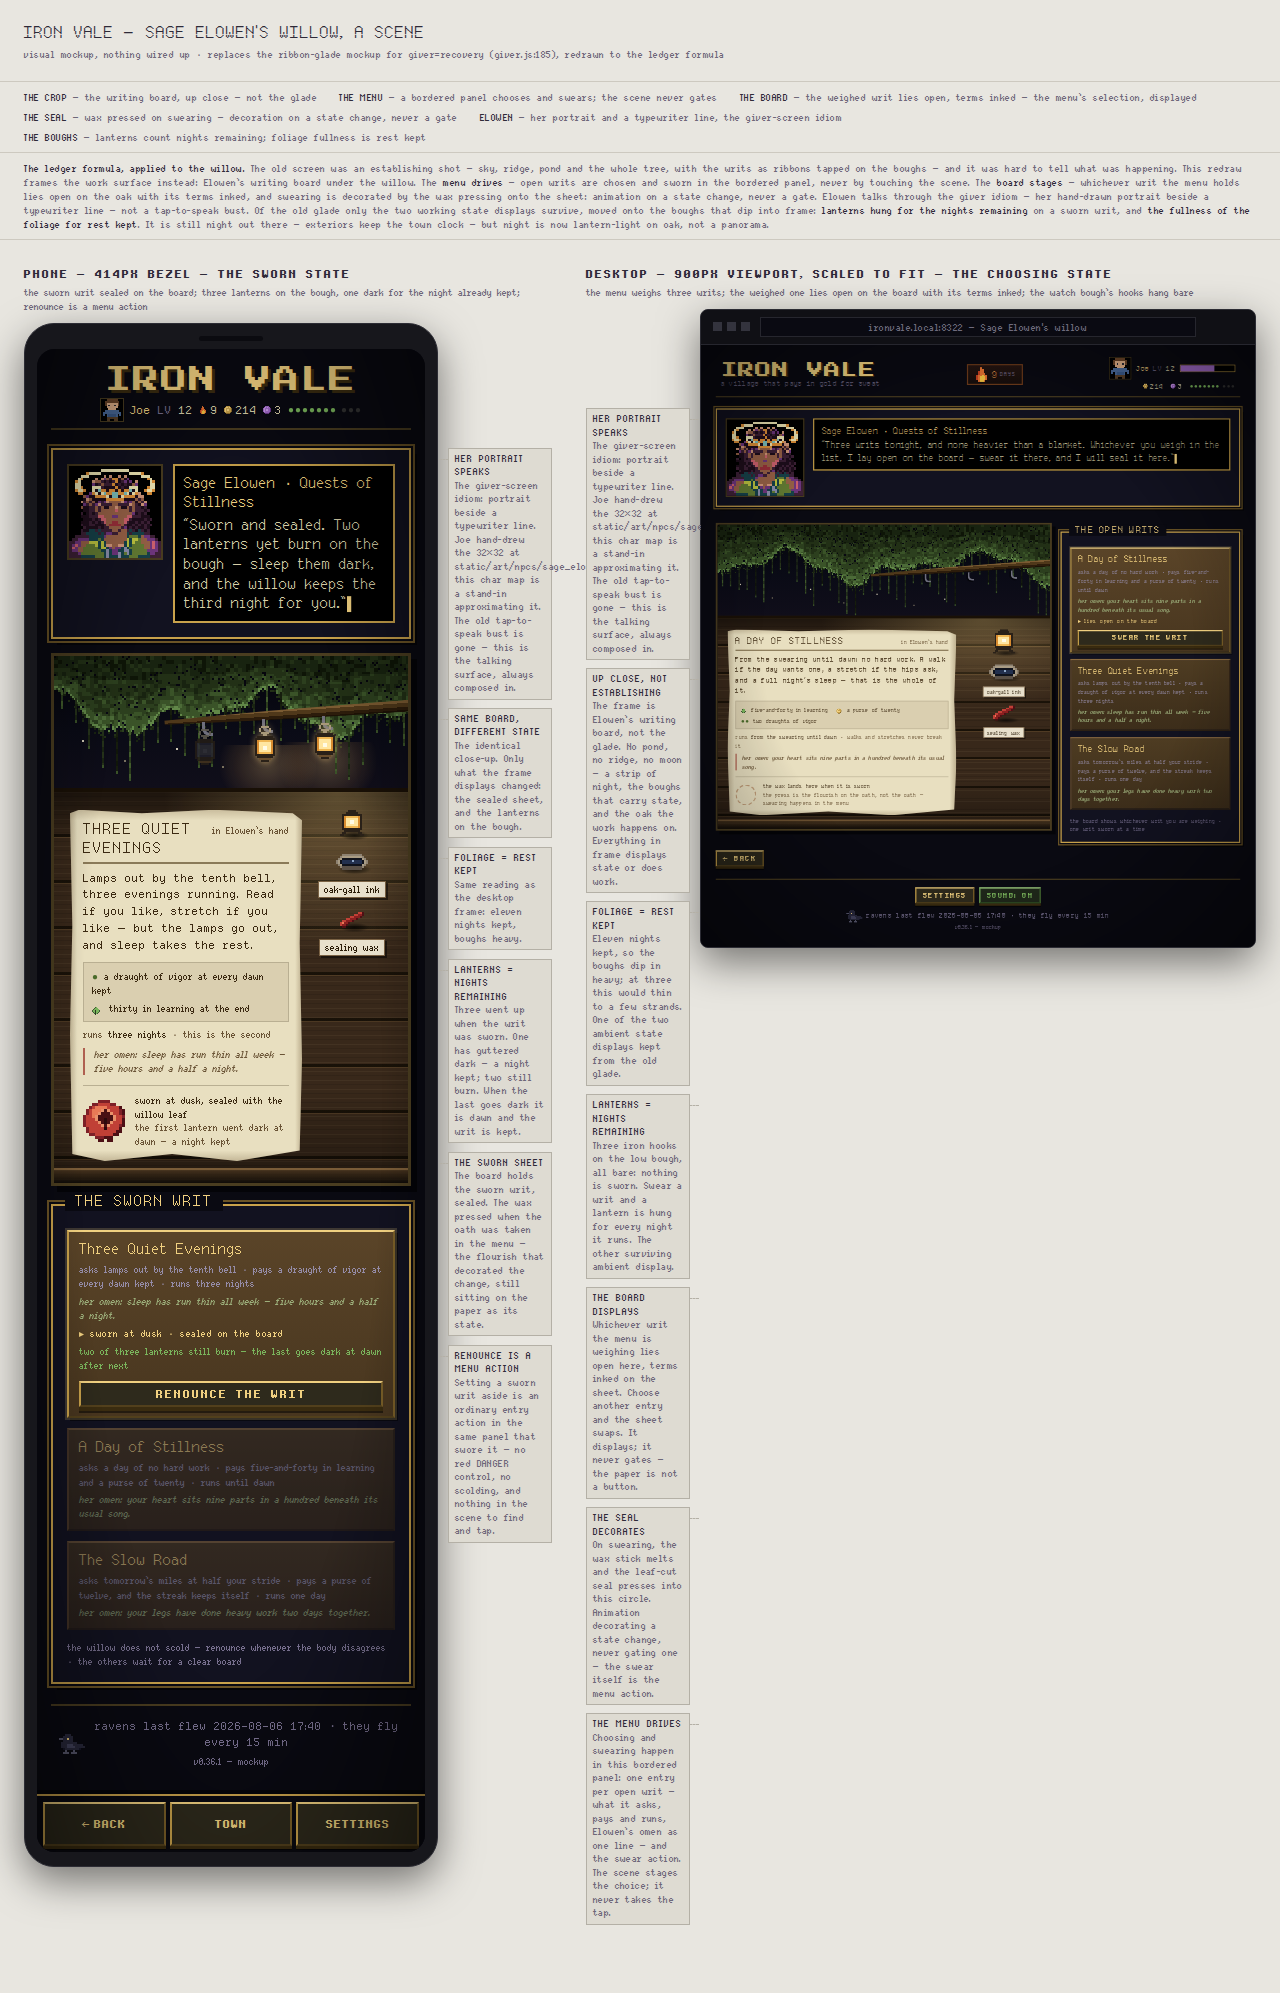
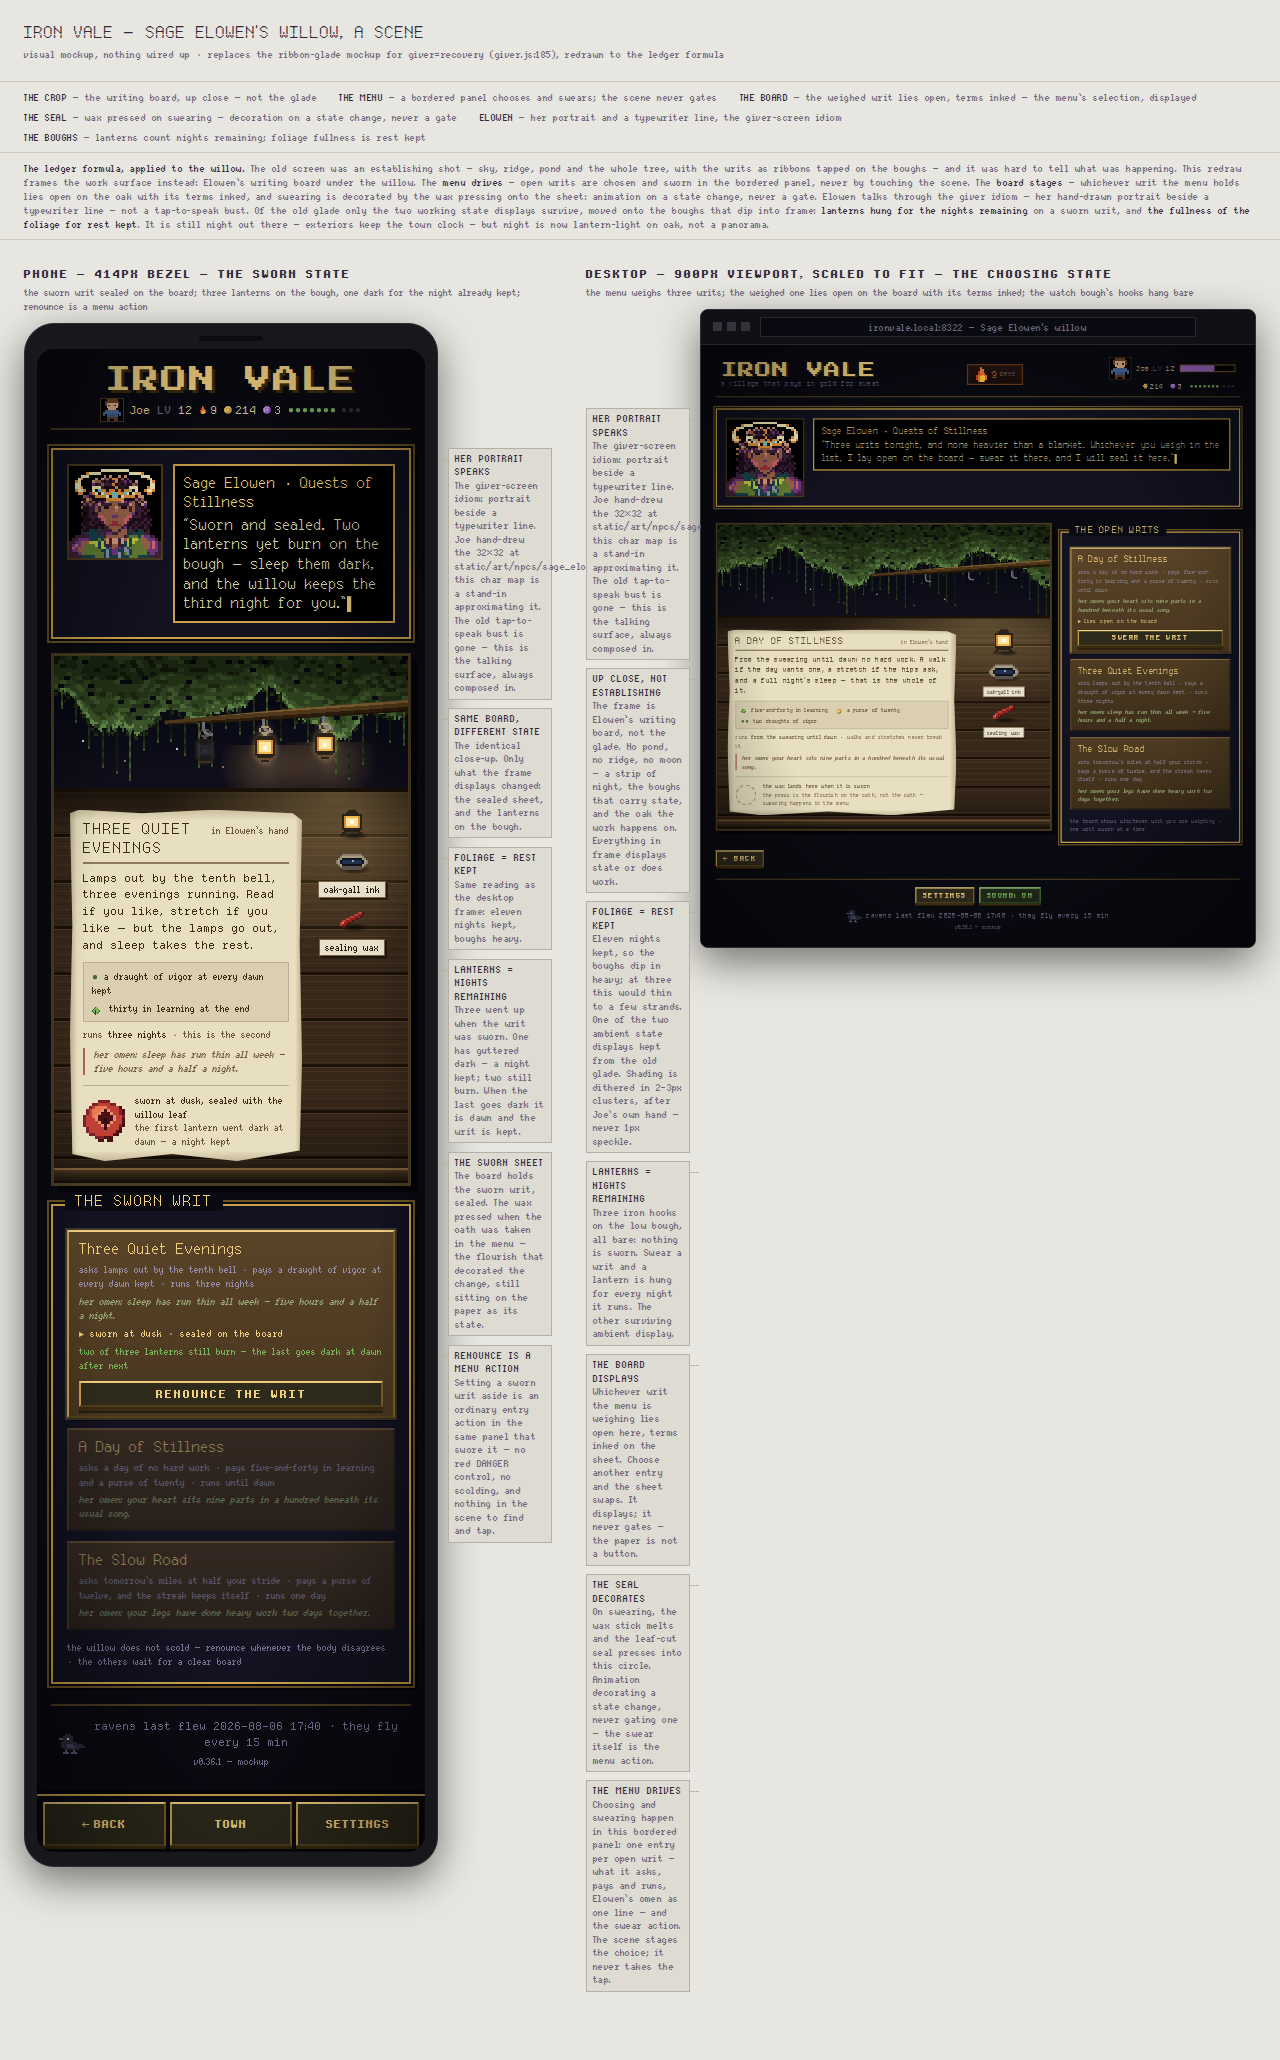
docs: review fixes — minute entry, cluster dither, 44px hit areas
Claude-Session: https://claude.ai/code/session_01BWToSBuq99hif8LTEVKkDE

Changed region(s): [[0.0, 0.0, 1.0, 0.9644]]

diff --git a/docs/mockups/place-ledger.html b/docs/mockups/place-ledger.html
@@ -141,7 +141,7 @@
   background:#20304e; animation:dripFall 1.7s steps(2) infinite; }
 @keyframes dripFall { 0% { opacity:0.15; transform:translateY(-5px); } 50% { opacity:1; transform:translateY(0); } }
 /* the quill lies across the right of the line, so the writing keeps clear of it */
-.iv .entry-fresh .etext, .iv .notewrite { padding-right:58px; }
+.iv .entry-fresh .etext, .iv .entry-fresh .efine, .iv .notewrite { padding-right:58px; }
 .iv .notewrite { display:block; margin-top:3px; }
 .iv .notewrite .ntext { color:#2a1c08; font-family:var(--font-fine); font-size:var(--type-fine);
   line-height:1.3; }
@@ -178,8 +178,20 @@
 .iv .rule-ink::after { content:''; position:absolute; left:100%; top:0; width:17px; height:4px;
   background:linear-gradient(90deg, #7a1e1e 0, rgba(122,30,30,0.6) 42%, rgba(122,30,30,0) 100%);
   clip-path:polygon(0 0, 48% 4%, 100% 40%, 100% 60%, 48% 96%, 0 100%); }
-.iv .strike-say { display:block; margin:5px 14px 0 0; text-align:right; color:#7a1e1e;
-  font-family:var(--font-fine); font-size:var(--type-fine); letter-spacing:0.5px; }
+/* the strike action. Destructive, so it is never the smallest target on the
+   screen: a padded small-caps line in the body weight class, carrying the
+   straightedge's own brass motif — visually modest, but its invisible hit
+   region (the ::before inset) extends past the border to 44x44px, the
+   DESIGN.md phone minimum. */
+.iv .strike-row { display:block; text-align:right; margin:6px 8px 0 0; }
+.iv .strike-act { position:relative; display:inline-flex; align-items:center; gap:8px;
+  appearance:none; -webkit-appearance:none; padding:7px 12px; cursor:pointer;
+  border:2px solid #7a1e1e; background:rgba(122,30,30,0.10); color:#7a1e1e;
+  font-family:var(--font-body); font-size:var(--type-body); font-variant:small-caps;
+  letter-spacing:1px; line-height:1.1; box-shadow:2px 2px 0 rgba(0,0,0,0.35); }
+.iv .strike-act::before { content:''; position:absolute; left:-6px; right:-6px; top:-7px; bottom:-7px; }
+.iv .strike-act .edge-mote { display:inline-block; width:22px; height:6px; border:1px solid #7a1e1e;
+  background:linear-gradient(180deg,#c4a97e,#ab9066); }
 
 /* --- the stamp rack: a slotted block, and what is standing in and around it --- */
 .iv .rack-stage { position:relative; height:220px; margin-bottom:12px; }
@@ -240,6 +252,22 @@
 .iv .reading .rd { display:inline-block; padding:3px 8px; background:#140d05; border:2px solid var(--gold);
   color:var(--gold-bright); font-family:var(--font-body); font-size:var(--type-body); line-height:1.2;
   box-shadow:0 2px 0 rgba(0,0,0,0.6); }
+/* the minute line: a REAL numeric field beside the glass. The number is the
+   record — the backend stores plain minutes, and nothing here rounds the
+   stored figure. The glass and the prose reading only display it; whether a
+   display may round to quarter-hours is a question parked for Joe. */
+.iv .minute-line { margin-top:10px; text-align:center; }
+.iv .minute-line .paper-tag { display:inline-block; margin-bottom:4px; }
+.iv .minute-in { display:inline-block; width:64px; padding:4px 6px; background:#e8e0cc;
+  border:2px solid #7a6244; color:#2a1c08; font-family:var(--font-body); font-size:var(--type-body);
+  text-align:center; box-shadow:2px 2px 0 rgba(0,0,0,0.5);
+  appearance:textfield; -moz-appearance:textfield; }
+.iv .minute-in:focus { outline:2px solid var(--gold); outline-offset:1px; }
+.iv .minute-in::-webkit-outer-spin-button, .iv .minute-in::-webkit-inner-spin-button {
+  -webkit-appearance:none; margin:0; }
+.iv-phone .desk-edge .minute-line { margin-top:8px; }
+.iv-phone .desk-edge .minute-in { width:52px; padding:3px 4px; font-family:var(--font-fine);
+  font-size:var(--type-fine); }
 
 /* --- the slips the ravens already brought: paper, torn and sealed --- */
 /* the raven stands on the stack it brought, so the paper is under its feet */
@@ -626,7 +654,8 @@
         <span class="hs-shade"></span>${IV.spriteTag('stamp_climb_held', 32)}<span class="drop"></span>
       </span>
       <span class="ghost-blot"></span>
-      <span class="etext">this evening &mdash; <b>a little under an hour</b></span>
+      <span class="etext">this evening &mdash; <b>52 minutes</b></span>
+      <span class="efine">&ldquo;a little under an hour,&rdquo; in Wick&rsquo;s gloss &mdash; the figure is what stands</span>
       <span class="notewrite"
             data-seam="QUILL"
             data-tag="THE QUILL IS THE NOTE FIELD|Write on the line with it. The note goes where a note goes: on the page, in its own entry.">
@@ -685,14 +714,23 @@
     </div>`;
   }
 
-  /* the hourglass: set the sand by the brass slide, and it reads back */
+  /* the hourglass: the minutes, held in glass. A real numeric field sets them
+     exactly (the record is plain minutes, same as the backend); the brass
+     slide stays as the drag alternative; glass and prose only display. */
   function hourglass(phone) {
+    var mid = phone ? 'minin-p' : 'minin-d';
     return `<div class="prop"
          data-seam="GLASS"
-         data-tag="THE GLASS IS THE MINUTES FIELD|Run the brass slide and the sand follows it; the glass reads back what it holds, rather than asking you for a number.">
+         data-tag="THE GLASS DISPLAYS THE MINUTES|Ink the number or run the brass slide &mdash; the sand follows either. The glass reads back what is set; it is a display, never the only way in.">
       <div class="glass-block">${stands('hourglass', 42)}</div>
       <div class="sandrail"><span class="ticks"></span><span class="fill"></span><span class="knob"></span></div>
-      <div class="reading"><span class="rd">a little under an hour</span></div>
+      <div class="minute-line"
+           data-seam="MINUTES"
+           data-tag="MINUTES, INKED PLAINLY|A real numeric field beside the glass: ink 52 and 52 is what is sworn. Precision follows the backend &mdash; plain minutes, never rounded on the way through. The prose reading below is decoration only; whether a display may gloss to quarter-hours is parked for Joe.">
+        <label class="paper-tag" for="${mid}">minutes, inked plainly</label>
+        <input class="minute-in" id="${mid}" type="number" inputmode="numeric" min="1" max="600" value="52">
+      </div>
+      <div class="reading"><span class="rd">reads &ldquo;a little under an hour&rdquo;</span></div>
     </div>`;
   }
 
@@ -819,7 +857,11 @@
                     <span class="efine">half an hour &middot; <i>the same walk, brought twice</i></span>
                     <span class="rule-lay">${straightedge()}</span>
                     <span class="rule-ink" style="width:68%"></span>
-                    <span class="strike-say">strike from the record</span>
+                    <span class="strike-row"
+                          data-seam="44PX"
+                          data-tag="NEVER THE SMALLEST TARGET|A destructive action must never be the smallest target on the screen. The strike line is a padded small-caps action in the body weight class with the straightedge&rsquo;s brass motif &mdash; visually modest, and its invisible hit region extends past the border to 44&times;44px, the DESIGN.md phone minimum.">
+                      <button type="button" class="strike-act"><i class="edge-mote"></i>strike from the record</button>
+                    </span>
                   </div>
 
                   ${freshEntry(true)}
@@ -845,10 +887,10 @@
     subtitle: 'visual mockup of SCREENS.scrivener (static/js/giver.js:1143) — nothing wired up, nothing shipped',
     legend: [
       { label: 'KIND', text: 'the select becomes a block of stamps, one die per kind of deed' },
-      { label: 'MINUTES', text: 'the number field becomes an hourglass and a brass slide' },
+      { label: 'MINUTES', text: 'the hourglass and slide display the minutes; a plainly-inked numeric field sets them exactly' },
       { label: 'NOTE', text: 'the text field becomes a quill writing on the line' },
       { label: 'SUBMIT', text: 'the button becomes the blot the die leaves' },
-      { label: 'DELETE', text: 'the straightedge rules a line — struck from the record' },
+      { label: 'DELETE', text: 'the straightedge rules a line — a padded action with a 44px hit area, never the smallest target' },
       { label: 'WICK', text: 'his hand-drawn 32&times;32 portrait + typewriter line, first-class — no tap-to-speak bust' },
     ],
     note: '<b>The thesis.</b> Today this screen is three form rows &mdash; a kind select, a minutes number field, a note text field &mdash; ' +
@@ -860,7 +902,7 @@
       phone: {
         title: 'Phone — 414px bezel',
         sub: 'the desk folded to its near edge; one entry mid-strike; Wick&rsquo;s portrait small on the far-edge band, a line half-typed',
-        chips: ['the fold', 'straightedge mid-rule', 'the block on the near edge', 'glass beside it'],
+        chips: ['the fold', 'straightedge mid-rule', 'a 44px strike target', 'the block on the near edge', 'minutes, inked plainly'],
         html: phoneScene(),
       },
       desktop: {

diff --git a/docs/mockups/place-hall.html b/docs/mockups/place-hall.html
@@ -544,6 +544,15 @@ var SCENE_CSS = `
 .iv .tapestry-scroll::-webkit-scrollbar-track { background:#0c0c14; }
 .iv .tapestry-scroll::-webkit-scrollbar-thumb { background:#4a3d20; }
 .iv .tapestry-scroll canvas { display:block; image-rendering:pixelated; }
+/* the annotation-layer depiction of one stitch's REAL tap target: stitches
+   stay 12px on the wall, but each answers to an invisible 44x44px hit region
+   (the DESIGN.md phone minimum). One is outlined here, centred on its stitch:
+   left = 26 + 50*14 + 6 - 22, top = 18 + 2*14 + 6 - 22 (col 50, row 2 of the
+   tapestry grid drawn below — a woven day). */
+.iv .tap-stage { position:relative; width:max-content; }
+.iv .stitch-hit { position:absolute; left:710px; top:30px; width:44px; height:44px;
+  box-sizing:border-box; border:2px dashed var(--gold-bright);
+  background:rgba(240,208,128,0.10); pointer-events:none; z-index:3; }
 .iv .tap-legend { display:flex; gap:8px 12px; flex-wrap:wrap; justify-content:center;
   font-family:var(--font-body); font-size:var(--type-body); color:var(--dim); margin-top:8px; }
 .iv .tap-legend .cdot { margin-right:4px; }
@@ -800,6 +809,7 @@ var TAG_SURFACE = 'THE READING SURFACE|A plain .win panel &mdash; the Tapestry c
 var TAG_BACK = 'STEP BACK OUT|A 24px archway in the &times;-close weight class with a fine caption under it. Not a BACK button: a doorway, in the corner of the panel you are reading.';
 var TAG_MAUD = 'THE PORTRAIT SPEAKS|Joe&rsquo;s hand-drawn 32&times;32 portrait beside the black typewriter box &mdash; the app&rsquo;s own npc-head idiom (static/js/hall.js seats the Curator exactly this way today). She narrates the room you are standing in, the way giver screens talk. No tap-to-speak corner bust anywhere. The portrait here is a char-map stand-in transcribed from static/art/npcs/maud/maud_portrait.png &mdash; it only approximates Joe&rsquo;s art; the real PNG lands with the art pass.';
 var TAG_TABLES = 'TABLES STAY TABLES|A record you cannot read is not a better record. The grid, the rows and the numbers keep the same density and the same useful dullness they have now. Only the way in changed.';
+var TAG_HIT = 'A STITCH&rsquo;S REAL TARGET|Stitches stay 12px on the wall &mdash; but every stitch answers to an invisible 44&times;44px hit region, the DESIGN.md phone minimum. One is outlined here in the annotation layer, centred on its stitch: tap anywhere in the square and that day opens.';
 
 var CAT_LABELS = { run: 'run', ride: 'ride', climb: 'climb', strength: 'lift',
   mobility: 'mobility', walk: 'walk/hike', swim: 'swim', other: 'other' };
@@ -858,12 +868,14 @@ function tapestryWinHtml(phone) {
       : '')
     + '<div class="muted" style="margin-bottom:6px">a year of days, one stitch each, '
     + 'colored by the day&rsquo;s longest labor</div>'
-    + '<div class="tapestry-scroll"><canvas class="tapestry-cv"></canvas></div>'
+    + '<div class="tapestry-scroll"><div class="tap-stage"><canvas class="tapestry-cv"></canvas>'
+    + '<span class="stitch-hit" data-seam="44PX" data-tag="' + TAG_HIT + '"></span>'
+    + '</div></div>'
     + '<div class="tap-legend">' + tapLegendHtml() + '</div>'
     + '<div class="road-caption">'
     + '<b style="color:var(--gold-bright)">243</b> days woven this past year '
     + '&middot; longest unbroken thread: <b style="color:var(--gold-bright)">19</b> days'
-    + '<br><span class="muted fine">tap a stitch to inspect that day</span>'
+    + '<br><span class="muted fine">tap a stitch to inspect that day &mdash; every 12px stitch answers a 44&times;44px hit region (one outlined)</span>'
     + '</div></div>';
 }
 
@@ -952,7 +964,7 @@ IV.page({
       sub: 'the loom, opened: the fixture still overhead with its name in the sill, the Tapestry and the '
         + 'calendar of deeds below it, Maud narrating from her portrait beneath the records, '
         + 'an archway back out to the hall',
-      chips: ['WHERE YOU STAND', 'THE READING SURFACE', 'STEP BACK OUT', 'THE PORTRAIT SPEAKS', 'TABLES STAY TABLES'],
+      chips: ['WHERE YOU STAND', 'THE READING SURFACE', 'A STITCH&rsquo;S REAL TARGET', 'STEP BACK OUT', 'THE PORTRAIT SPEAKS', 'TABLES STAY TABLES'],
       html: phoneScene(),
     },
     desktop: {
@@ -960,7 +972,7 @@ IV.page({
       sub: 'the same room at width: eight bays of corridor across the top, the loom lit because you walked '
         + 'into it, Maud greeting from her portrait, and its record laid out in two columns underneath',
       chips: ['THE CORRIDOR', 'THE NAME IS THE BUILDING', 'THE HALL IS A BUILDING', 'THE PORTRAIT SPEAKS',
-        'THE RECORD, OPENED', 'THE FOLD'],
+        'THE RECORD, OPENED', 'A STITCH&rsquo;S REAL TARGET', 'THE FOLD'],
       url: 'ironvale.local:8322 &mdash; the Hall of Records',
       html: desktopScene(),
     },

diff --git a/docs/mockups/place-willow.html b/docs/mockups/place-willow.html
@@ -177,7 +177,10 @@ IV.addSprites({
      transcribed from Joe's hand-drawn art at
      static/art/npcs/sage_elowen/sage_elowen_portrait.png (the app draws the
      real PNG; a mockup keeps everything as char maps). It approximates his
-     art: the pale crescent circlet, the dark plum curls, the green robe. */
+     art: the pale crescent circlet, the dark plum curls, the green robe.
+     The clasped hands are drawn with light-skin fingers split by dark seams
+     over the darker hand-back, so the grip reads at rendered size instead
+     of as a featureless stump. */
   elowen_portrait: { p: {
     k:'#f5edba', K:'#e4943a', p:'#d79b7d', f:'#70377f', F:'#9a6348', c:'#3e2137',
     r:'#1f0e1c', g:'#7ec4c1', Y:'#d26471', o:'#9d303b', W:'#17434b', L:'#647d34',
@@ -206,10 +209,10 @@ IV.addSprites({
     '.....crrrrcrccFFFFcfrcrcrrcr....',
     '....crrWWcWccccFFcFFcWcrWcrc....',
     '....ccWWWWcWcffccFFFWcWWWWcc....',
-    '..cccccWWWWWfFFFFFFFWLLLWFffcc..',
-    '.ccffffWWWLWFFFFFFFFRWRRLFFfffc.',
-    'ccffFFFRRRWRWFFFFFFWRWRLLFFFfYfc',
-    'cfYfFFLLLRWRWppFFppWRWLLLLFFfYfc',
+    '..cccccWWWWWcFFFFFFcWLLLWFffcc..',
+    '.ccffffWWWLWFpcppcpFRWRRLFFfffc.',
+    'ccffFFFRRRWRWpcppcpWRWRLLFFFfYfc',
+    'cfYfFFLLLRWRWccFFccWRWLLLLFFfYfc',
     'cYfFFLLLLLWRRWfFffWmWLLLLLFFfYfc',
     'cffFFLLLLLLWWmWffWWmmWLLLLLffffc',
     'cccfLLLLLLLLWmWffmWLmWLLLLLWffcc',
@@ -307,24 +310,34 @@ function fringeDepth(W, H, seed, full) {
   return d;
 }
 
+/* Joe's own art shades in 2-3px clusters, never lone pixels. Every noise
+   field below is therefore sampled per CLUMP — brick-laid blocks two cells
+   tall and three cells wide, offset every other band — so sky holes, shade
+   jitter and lamplit tips all land as grouped clumps, not 1px speckle. */
+function clumpAt(x, y, seed) {
+  var band = Math.floor(y / 2);
+  var col = Math.floor((x + (band & 1)) / 3);
+  return hash2(col * 17 + seed, band * 3 + seed);
+}
+
 function paintFringe(ctx, depth, H, s) {
   for (var x = 0; x < depth.length; x++) {
     var d = depth[x];
     for (var y = 0; y < d; y++) {
-      if (hash2(x * 7, y * 7) < 0.035) continue;              /* sky through the leaves */
+      if (clumpAt(x, y, 91) < 0.045) continue;                /* sky through the leaves, in clumps */
       var u = y / d;
       var idx = u < 0.30 ? 1 : u < 0.55 ? 2 : u < 0.78 ? 3 : 4;
-      var n = hash2(Math.floor(x / 2), Math.floor(y / 2));
+      var n = clumpAt(x, y, 7);
       if (n < 0.22) idx -= 1; else if (n > 0.82) idx += 1;
-      if (d - y <= 2 && hash2(x * 3, y) > 0.40) idx += 2;     /* lamplit leaf tips */
+      if (d - y <= 3 && clumpAt(x, y, 43) > 0.55) idx += 2;   /* lamplit leaf tips, clumped */
       if (idx < 0) idx = 0; if (idx > 6) idx = 6;
       ctx.fillStyle = LEAFG[idx];
       ctx.fillRect(x * s, y * s, s, s);
     }
-    for (var e = 0; e < 4; e++) {                             /* ragged tips below */
+    for (var e = 0; e < 4; e++) {                             /* ragged tufts below, two cells wide */
       var yy = d + e;
       if (yy >= H) break;
-      if (hash2(x * 2, yy * 5) < 0.40 - e * 0.09) {
+      if (hash2(Math.floor(x / 2) * 2, (yy >> 1) * 5) < 0.40 - e * 0.09) {
         ctx.fillStyle = LEAFG[1 + (e % 2)];
         ctx.fillRect(x * s, yy * s, s, s);
       }
@@ -517,7 +530,7 @@ function desktopScene() {
     fr: FR_D, paintKey: 'fringe_d', bandH: 148, phone: false,
     stars: [[36, 96, 0], [88, 118, 1], [150, 104, 0], [204, 126, 1], [258, 112, 0], [318, 130, 1], [368, 120, 0]],
     strandCount: 40, strandLen: 64,
-    fringeAttrs: ' data-seam="REST KEPT" data-tag="FOLIAGE = REST KEPT|Eleven nights kept, so the boughs dip in heavy; at three this would thin to a few strands. One of the two ambient state displays kept from the old glade."',
+    fringeAttrs: ' data-seam="REST KEPT" data-tag="FOLIAGE = REST KEPT|Eleven nights kept, so the boughs dip in heavy; at three this would thin to a few strands. One of the two ambient state displays kept from the old glade. Shading is dithered in 2&ndash;3px clusters, after Joe&rsquo;s own hand &mdash; never 1px speckle."',
     bough: {
       top: 66, w: 300,
       attrs: ' data-seam="THE WATCH BOUGH" data-tag="LANTERNS = NIGHTS REMAINING|Three iron hooks on the low bough, all bare: nothing is sworn. Swear a writ and a lantern is hung for every night it runs. The other surviving ambient display."',
